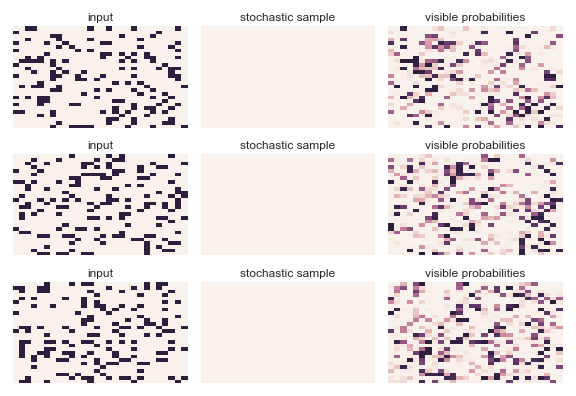
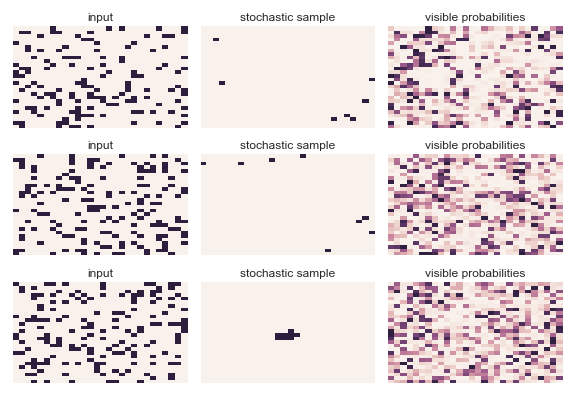
Bug fix

diff --git a/contrastive_divergence.py b/contrastive_divergence.py
@@ -4,7 +4,7 @@ from scipy.special import expit
 
 # random_params: (int, int, tuple, tuple) -> tuple
 def random_params(nvisible, nhidden, loc, scale):
-    return (numpy.random.normal(loc=loc[0],scale=scale[0],size=nvisible), numpy.random.normal(loc=[1],scale=scale[1],size=nhidden), numpy.random.normal(loc=loc[2],scale=scale[2],size=(nvisible,nhidden)))
+    return (numpy.random.normal(loc=loc[0],scale=scale[0],size=nvisible), numpy.random.normal(loc=loc[1],scale=scale[1],size=nhidden), numpy.random.normal(loc=loc[2],scale=scale[2],size=(nvisible,nhidden)))
 
 # hidden_fields: (array, array, vector) -> array
 def hidden_fields(visible, W, b):
@@ -66,14 +66,14 @@ def grad_W(h_data, v_data, h_free, v_free):
     return (numpy.dot(v_data.T,h_data) - numpy.dot(v_free.T,h_free))/len(v_data)
     
 # descent: (array, int, tuple, int, int, float, int, OPTIONAL) -> tuple
-def descent(images, batchsize, dim, n_hidden, n, momentum, epochs, method = "RMSprop"):
+def descent(images, batchsize, dim, n_hidden, n, momentum, epochs, method = "RMSprop", verbose = True):
     astep, bstep, Wstep = 0.001, 0.001, 0.001
     a,b,W = random_params(dim[0]*dim[1], n_hidden, (-0.5, -0.2, 0.0), (0.05, 0.05, 0.5))
     Da, Db, DW = numpy.zeros_like(a), numpy.zeros_like(b), numpy.zeros_like(W) 
     MSa, MSb, MSW = numpy.zeros_like(a), numpy.zeros_like(b), numpy.zeros_like(W) 
     # an array to store the reconstruction error values during the descent
     mem = []
-    
+        
     # permute the images into a random order
     randim = mnist.random_permute(images)
     for epoch in range(epochs):
@@ -86,7 +86,8 @@ def descent(images, batchsize, dim, n_hidden, n, momentum, epochs, method = "RMS
             h_data, v_free, h_free = gibbs(v_data, a, b, W, n)
             if t % 10 == 0:
                 err = rmse(v_data, v_free)
-                print("{0}: {1}: {2:.4f}".format(epoch,t,err))
+                if verbose:
+                    print("{0}: {1}: {2:.4f}".format(epoch,t,err))
                 mem.append(err)        
             
             # compute the gradients
@@ -107,9 +108,11 @@ def descent(images, batchsize, dim, n_hidden, n, momentum, epochs, method = "RMS
                 DW = lr*Wstep*dW + momentum*DW    
             else:
                 raise ValueError("method must be one of: RMSprop, momentum")
-                
+                                
             # update the paramters
+            #a, W = a + Da, W + DW
             a, b, W = a + Da, b + Db, W + DW
+        
     
     return (a, b, W, mem)
 

diff --git a/main.py b/main.py
@@ -15,7 +15,7 @@ if __name__ == "__main__":
     # run contrastive divergence
     minibatch_size = 200
     n_hidden = 1000
-    n_contrastive_divergence_steps = 3
+    n_contrastive_divergence_steps = 2
     momentum = 0.0
     n_epochs = 10
     method = "RMSprop"
